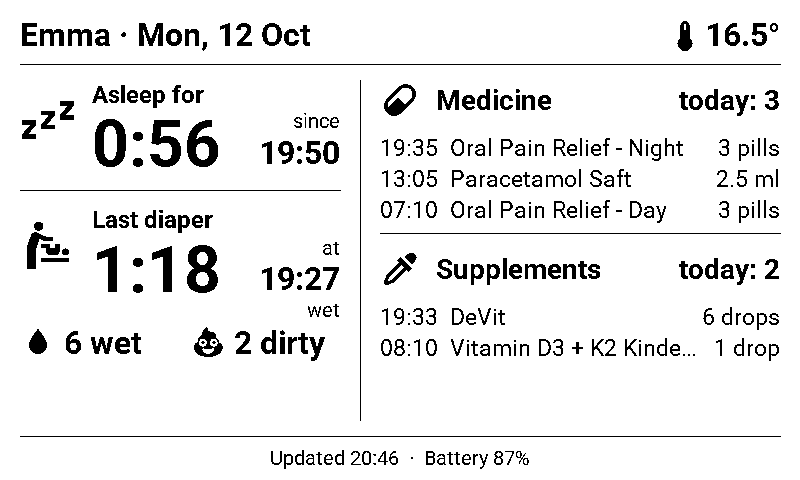
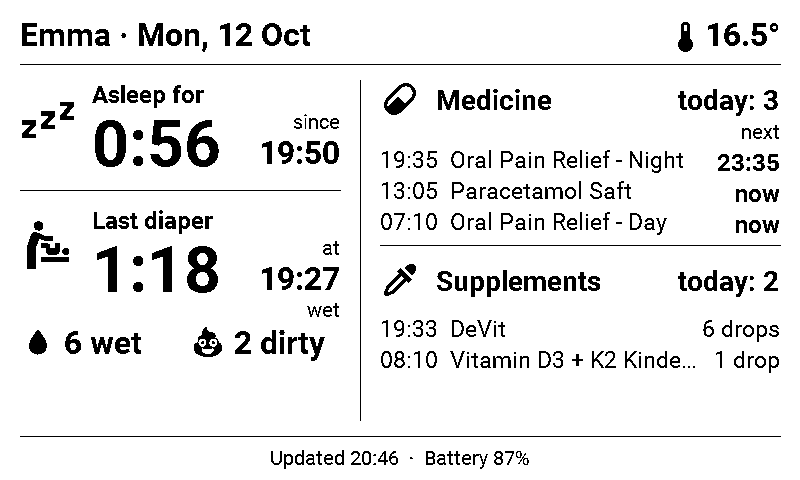
README: previews and diagram for the next-dose medicine list

diff --git a/README.md b/README.md
@@ -41,13 +41,13 @@ Sprout Track API                 Home Assistant                       Xteink X4 
 /status          ──every 60 s──▶  packages/xteink_x4.yaml              wakes every full hour
 /activities?type=medicine         sensor.xteink_x4_sleep      ──API──▶  (not 23–6) or on the button,
 /activities?type=supplement       sensor.xteink_x4_diaper               draws the page once,
-                                  sensor.xteink_x4_medicine             sleeps again
-                                  sensor.xteink_x4_supplements
+/reference?type=medicines         sensor.xteink_x4_medicine             sleeps again
+     └─ every 10 min              sensor.xteink_x4_supplements
 ```
 
-Home Assistant does all the work — it polls Sprout Track, picks out today's
-entries, formats times and durations — so the device only prints ready-made
-text. A wake takes about 10 seconds.
+Home Assistant does all the work — it polls Sprout Track, picks out the
+entries to show, works out when each medicine may be given again, formats
+times and durations — so the device only prints ready-made text. A wake takes about 10 seconds.
 
 The last wake of the day is at 22:00, the first at 6:00. Change the quiet
 hours with `quiet_start` and `quiet_end` at the top of
@@ -141,7 +141,7 @@ the device goes back to sleep at once.
 | `sensor.xteink_x4_sleep` | awake/asleep for, `H:MM` | `label` (*Awake for* / *Asleep for*), `since` (`HH:MM`) |
 | `sensor.xteink_x4_diaper` | since the last diaper, `H:MM` | `time`, `type` (*wet*, *dirty*, *wet + dirty*), `wet`, `dirty` (today) |
 | `sensor.xteink_x4_medicine` | doses today | `lines`: one per medicine given in the last 24 h, its latest dose, newest first, `HH:MM\|name\|next` (next dose allowed at `HH:MM`, `now`, or empty without a minimum time) |
-| `sensor.xteink_x4_supplements` | doses today | `lines`, as above |
+| `sensor.xteink_x4_supplements` | doses today | `lines`: one per dose today, newest first, `HH:MM\|name\|amount` |
 | `input_boolean.xteink_x4_keep_awake` | on = don't sleep | |
 | `input_boolean.xteink_x4_landscape` | on = landscape (two columns), off = portrait (one column) | |
 | `input_select.xteink_x4_wake_mode` | *Hourly*, *Button only* (deep sleep until the power button) or *Power off* (switched off until the power button) | |
